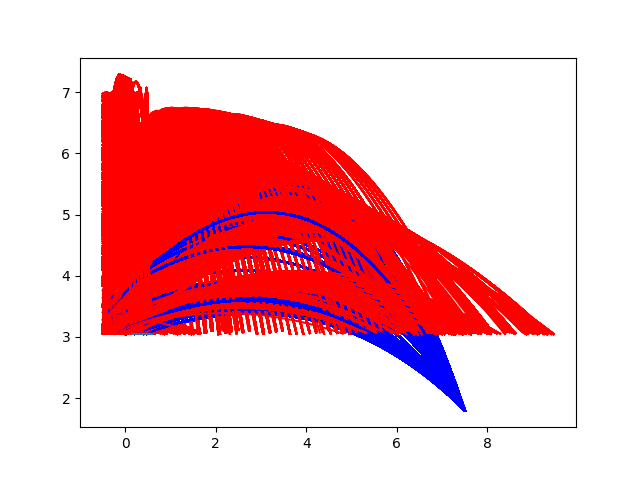
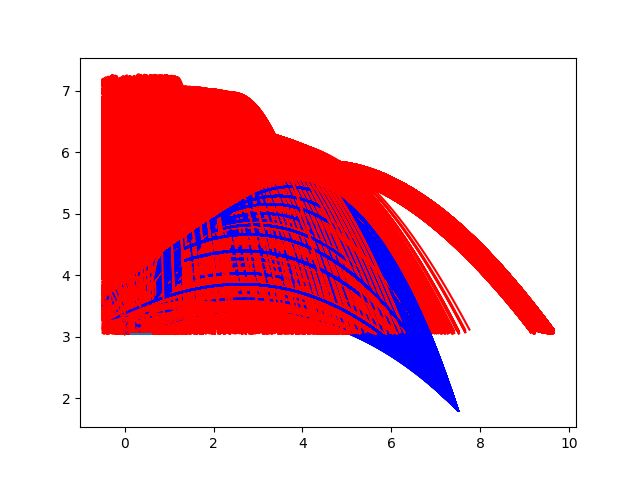
more updates

diff --git a/plot_backboard.py b/plot_backboard.py
@@ -1,8 +1,8 @@
 import pylab as plt
 
 def main():
-    plt.plot([ 0. ,        -0.30367703 ,-0.463731 ,  -0.46503231 ,-0.15561621, -0.40263566,
-  0.45010631,  0.05560952 ,-0.17089212 , 0.47891272] ,[3.048,      3.16653333, 3.28506667, 3.4036,     3.52213333, 3.64066667,
+    plt.plot([ 0.   ,      -0.13136058, -0.11859698 ,-0.02329268,  0.10608283,  0.36594755,
+ -0.14214704 ,-0.33499416, -0.01868345, -0.09460642]  ,[3.048,      3.16653333, 3.28506667, 3.4036,     3.52213333, 3.64066667,
  3.7592,     3.87773333, 3.99626667, 4.1148    ])
     plt.xlim(-1,7)
     plt.ylim(0,5.5)

diff --git a/test_points.py b/test_points.py
@@ -225,7 +225,7 @@ def move_points(num_points):
 
 
 def percent_in():
-    num_backboards = 1000
+    num_backboards = 100
     num_backboard_points = 10
     num_shots = 1000
     backboard_y = np.zeros((num_backboards,num_backboard_points))
